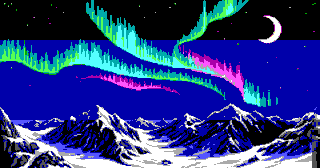
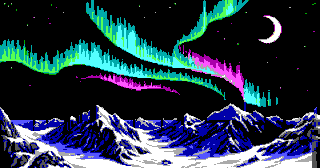
v0.7.22 - fix: repair polar walrus/elk/penguin sprite seams and seamless black aurora sky

diff --git a/wwwroot/index.html b/wwwroot/index.html
@@ -18,8 +18,8 @@
     </script>
     <link rel="preload" id="webassembly" />
     <link rel="stylesheet" href="lib/bootstrap/dist/css/bootstrap.min.css" />
-    <link rel="stylesheet" href="css/app.css?v=0.7.21" />
-    <link rel="icon" type="image/png" href="favicon.png?v=0.7.21" />
+    <link rel="stylesheet" href="css/app.css?v=0.7.22" />
+    <link rel="icon" type="image/png" href="favicon.png?v=0.7.22" />
     <link href="JumpRunShoot.styles.css" rel="stylesheet" />
     <script type="importmap"></script>
 </head>
@@ -39,7 +39,7 @@
         <span class="dismiss">🗙</span>
     </div>
 
-    <script src="js/gameInterop.js?v=0.7.21"></script>
+    <script src="js/gameInterop.js?v=0.7.22"></script>
     <script src="_framework/blazor.webassembly#[.{fingerprint}].js"></script>
 </body>
 

diff --git a/tests/JumpRunShoot.Tests/PolarAdventureThemeTests.cs b/tests/JumpRunShoot.Tests/PolarAdventureThemeTests.cs
@@ -201,4 +201,56 @@ public class PolarAdventureThemeTests
         EgaPngCodec.SavePng(showcase, previewPath);
         Assert.True(File.Exists(previewPath));
     }
+
+    [Fact]
+    public void PolarAdventureTheme_WalrusWalkFrames_HaveNoVerticalBodyTearSeam()
+    {
+        var theme = new PolarAdventureTheme();
+        var frames = theme.Assets.PatrolDroid;
+        Assert.Equal(4, frames.Length);
+
+        for (int f = 0; f < frames.Length; f++)
+        {
+            var sprite = frames[f];
+            for (int x = 1; x < sprite.Width - 1; x++)
+            {
+                int verticalGapCount = 0;
+                for (int y = 0; y < sprite.Height; y++)
+                {
+                    byte cur = sprite.Pixels[y * sprite.Width + x];
+                    byte left = sprite.Pixels[y * sprite.Width + (x - 1)];
+                    byte right = sprite.Pixels[y * sprite.Width + (x + 1)];
+                    if (cur == EgaSprite.Transparent && left != EgaSprite.Transparent && right != EgaSprite.Transparent)
+                    {
+                        verticalGapCount++;
+                    }
+                }
+                Assert.True(verticalGapCount < 4,
+                    $"Walrus frame {f} has a {verticalGapCount}px vertical transparent tear at column x={x}.");
+            }
+        }
+    }
+
+    [Fact]
+    public void PolarAdventureTheme_FarSkyBackdrop_HasNoSharpBlackToBlueHorizontalCut()
+    {
+        var theme = new PolarAdventureTheme();
+        var bg = theme.Assets.BackgroundFar;
+
+        // Upper sky band (y=35..75, around the crescent moon and upper aurora) must not switch into solid Blue sky
+        int blueSkyPixels = 0;
+        for (int y = 35; y < 75; y++)
+        {
+            for (int x = 0; x < bg.Width; x++)
+            {
+                if (bg.Pixels[y * bg.Width + x] == (byte)EgaColorIndex.Blue)
+                {
+                    blueSkyPixels++;
+                }
+            }
+        }
+
+        Assert.True(blueSkyPixels < 200,
+            $"Polar far sky backdrop still contains a large dark-blue band ({blueSkyPixels} px) creating a sharp black-blue sky cut.");
+    }
 }

diff --git a/GameVersion.cs b/GameVersion.cs
@@ -5,8 +5,8 @@ namespace JumpRunShoot;
 /// </summary>
 public static class GameVersion
 {
-    public const string Version = "0.7.21";
-    public const string BuildTag = "Fix invulnerability edge-case deaths (abyss, shield expiry, pickup order) and bullet-vs-bullet cancellation";
+    public const string Version = "0.7.22";
+    public const string BuildTag = "Fix Polar Adventure walrus/elk/penguin sprite seams and seamless black night sky behind aurora & moon";
 
     public static string DisplayVersion => $"v{Version}";
     public static string FullDisplay => $"v{Version}";
